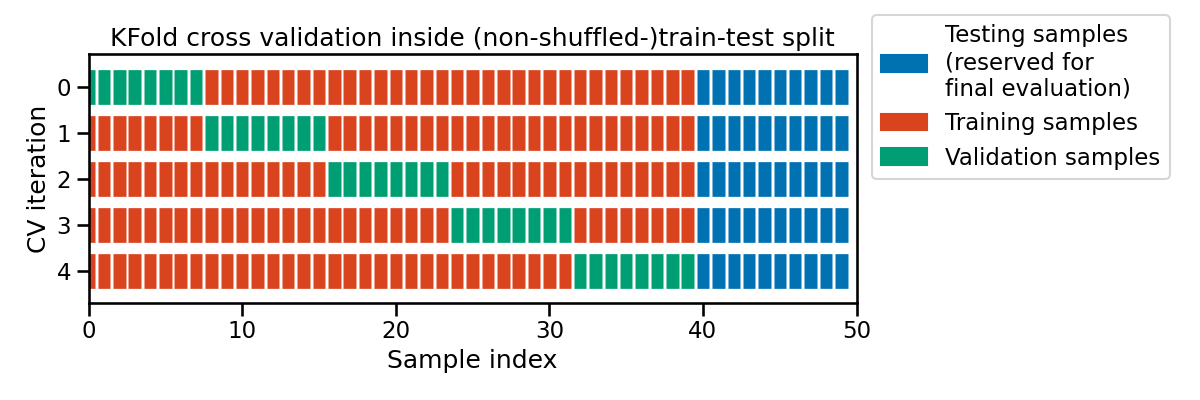
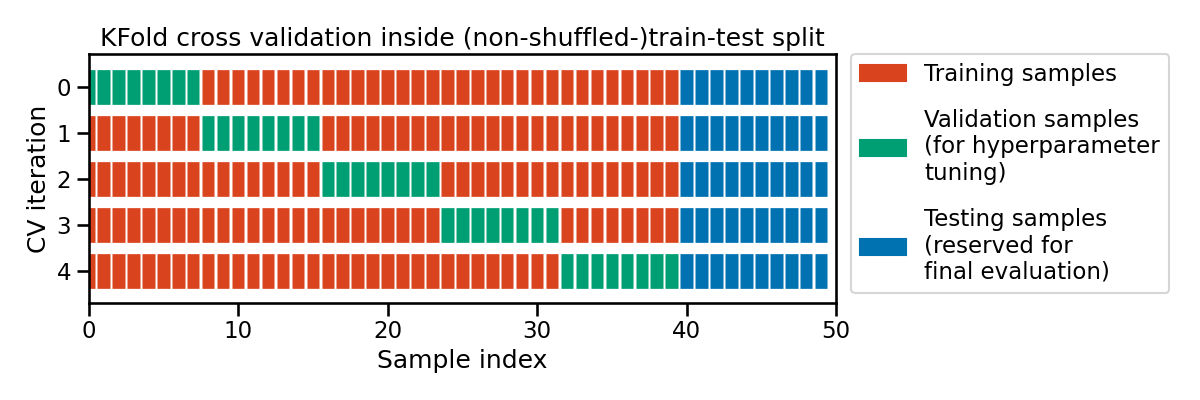
Address Guillaume's comments

diff --git a/figures/plot_parameter_tuning_cv.py b/figures/plot_parameter_tuning_cv.py
@@ -54,16 +54,17 @@ def plot_cv_indices(cv, X, y, ax, lw=50):
     )
     ax.legend(
         [
-            Patch(color=cmap_cv(0.9)),
             Patch(color=cmap_cv(0.5)),
             Patch(color=cmap_cv(0.02)),
+            Patch(color=cmap_cv(0.9)),
         ],
         [
-            "Testing samples\n(reserved for\nfinal evaluation)",
             "Training samples",
-            "Validation samples",
+            "Validation samples\n(for hyperparameter\ntuning)",
+            "Testing samples\n(reserved for\nfinal evaluation)",
         ],
-        loc=(1.02, 0.5),
+        loc=(1.02, 0.04),
+        labelspacing = 1,
     )
     return ax
 
@@ -128,16 +129,17 @@ def plot_cv_nested_indices(cv_inner, cv_outer, X, y, ax, lw=50):
     )
     ax.legend(
         [
-            Patch(color=cmap_cv(0.9)),
             Patch(color=cmap_cv(0.5)),
             Patch(color=cmap_cv(0.02)),
+            Patch(color=cmap_cv(0.9)),
         ],
         [
-            "Testing samples\n(reserved for\nouter evaluation)",
             "Training samples",
-            "Validation samples",
+            "Validation samples\n(for hyperparameter\ntuning)",
+            "Testing samples\n(reserved for\nfinal evaluation)",
         ],
-        loc=(1.06, 0.85),
+        loc=(1.07, 0.77),
+        labelspacing = 1,
     )
     return ax
 
